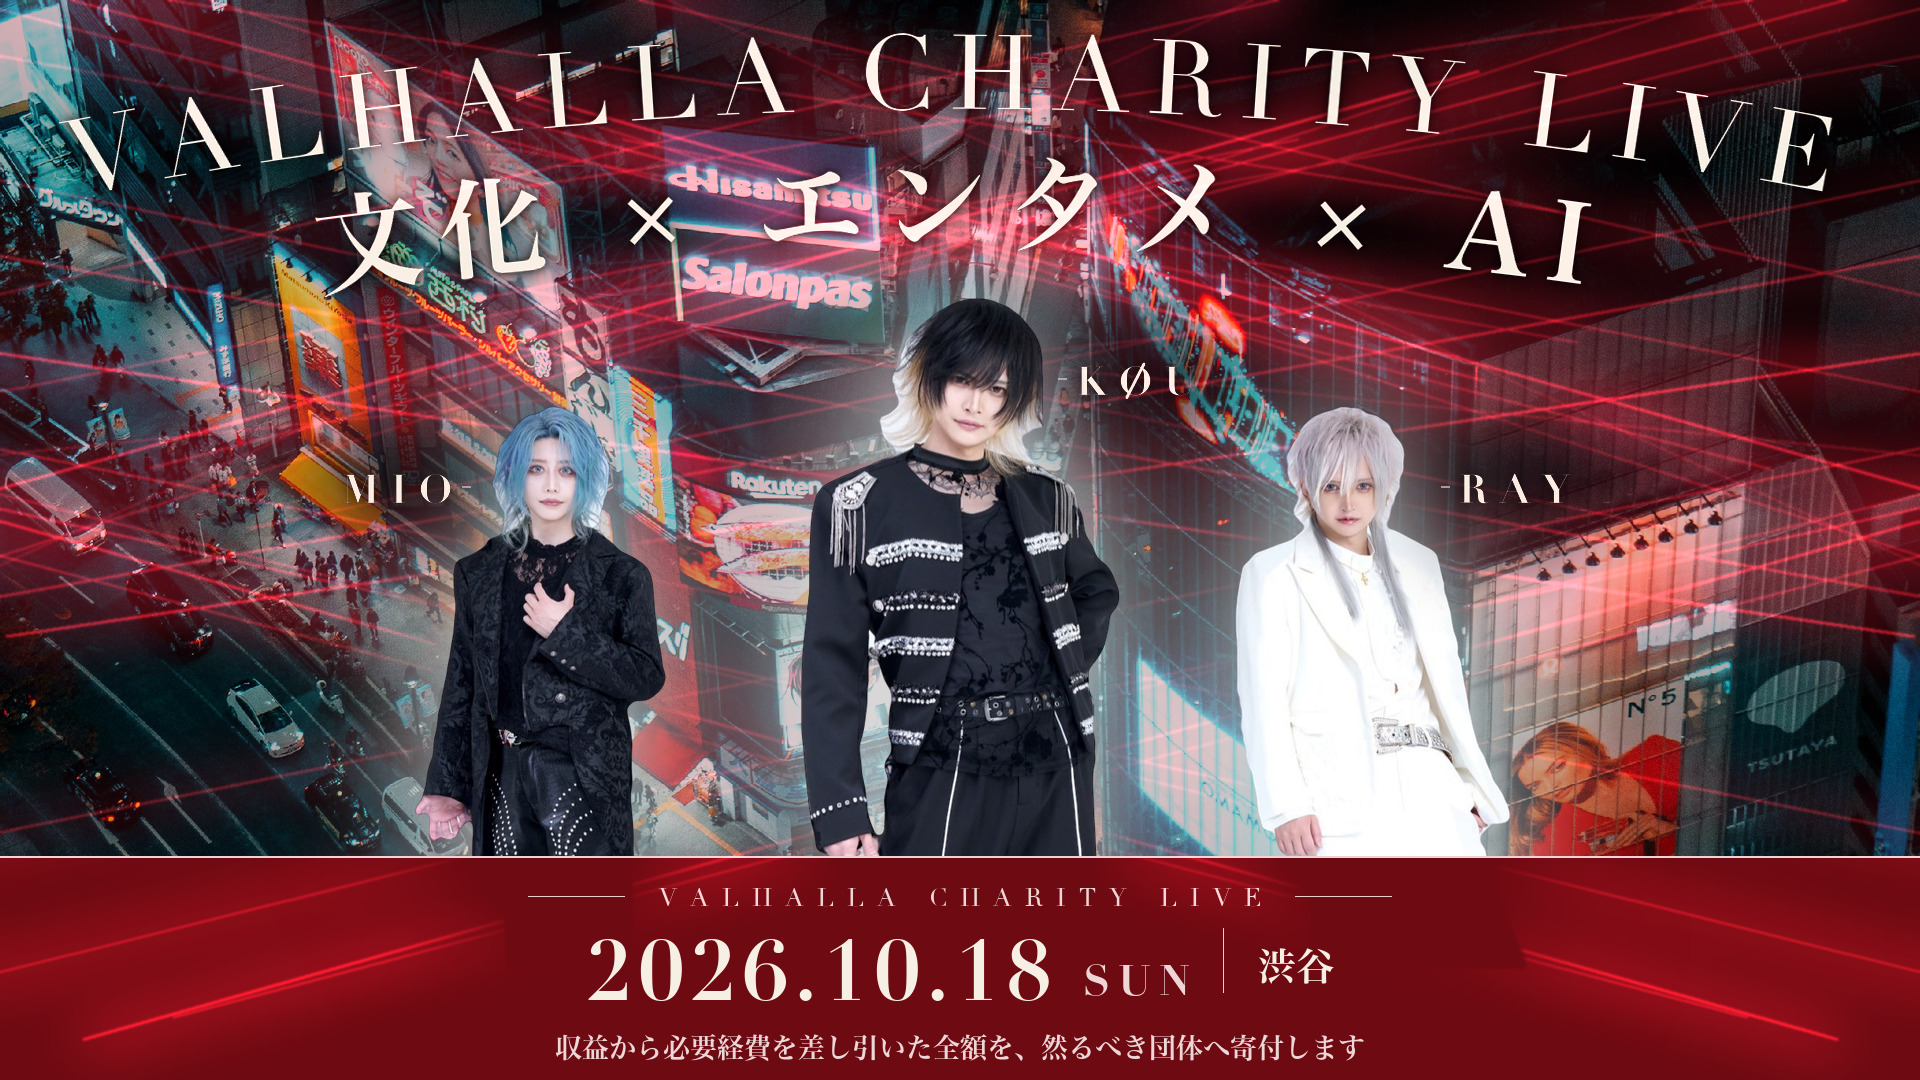
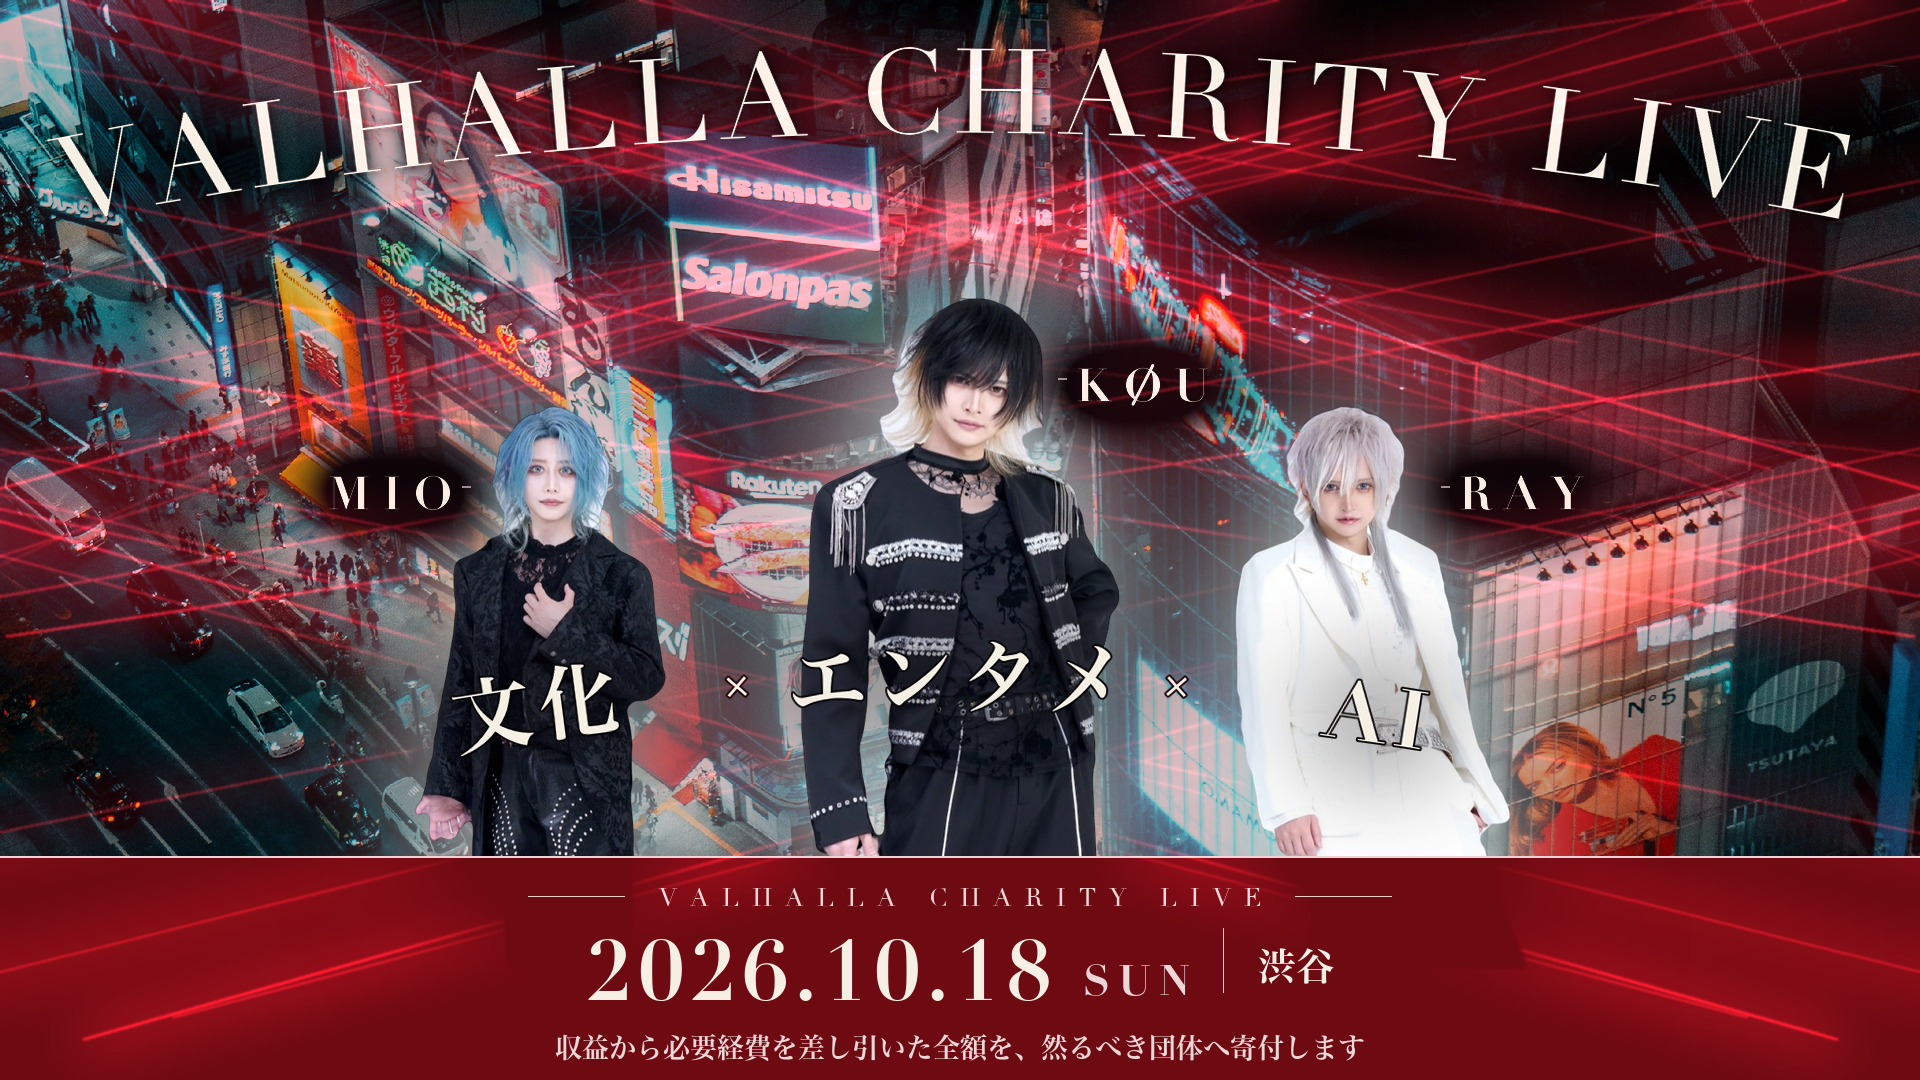
charity: drop the three words onto the members' waists
Each word now sits on the member it belongs to and each × falls in a gap
between them, so the arc has to place words at chosen x positions rather
than centre one string — the angle is solved back from the x. The title
takes the top on its own at 118pt.

Both the names and the waist words raise their ground from the letter
shapes instead of an ellipse, which was leaving KØU's U outside the plate
and letting the billboard swallow it. The waist words also carry a thin
outline: over RAY's white suit a shadow dark enough to work alone read as
a stain on the jacket.

diff --git a/assets/charity/create_flyer_wide.py b/assets/charity/create_flyer_wide.py
@@ -252,7 +252,7 @@ def paste_people(base: Image.Image, placed) -> None:
         base.alpha_composite(person, (x, y))
 
 
-NAME_SIZE = 40
+NAME_SIZE = 46
 NAME_SS = 4          # 名前だけ4倍で描いてから縮める（縁のギザつき対策）
 
 
@@ -331,26 +331,11 @@ def add_names(base: Image.Image, placed) -> None:
         tx = (head_left - gap - total) if side == "left" else (head_right + gap)
         boxes.append((name, widths, total, tx, y, side, head_left, head_right))
 
-    # ① 先に影だけを1枚の層で敷く（人物の上には出ないよう、幅は狭く）
-    scrim = Image.new("L", (W, H), 0)
-    sd = ImageDraw.Draw(scrim)
-    for _, _, total, tx, y, _, _, _ in boxes:
-        cx, cy = tx + total / 2, y + 22
-        sd.ellipse((cx - total * 0.76, cy - 68, cx + total * 0.76, cy + 68), fill=176)
-    scrim = scrim.filter(ImageFilter.GaussianBlur(38))
-    base.alpha_composite(Image.merge(
-        "RGBA", [Image.new("L", (W, H), v) for v in (7, 4, 7)] + [scrim]))
-
-    # ② そのうえに名前と、人物へつなぐ短い罫
+    # 影は文字の形から起こす。楕円の板だと端の文字が板からはみ出して沈み、
+    # KØU の U が背景の看板に飲まれていた。
     layer = Image.new("RGBA", (W, H), (0, 0, 0, 0))
     d = ImageDraw.Draw(layer)
-    gray = base.convert("L")
     for name, widths, total, tx, y, side, head_left, head_right in boxes:
-        patch = gray.crop((round(tx) - 10, y - 6, round(tx + total) + 10, y + 44))
-        mean = sum(patch.getdata()) / max(1, patch.width * patch.height)
-        if mean > 150:
-            raise RuntimeError(f"{name} の下地が明るすぎます（{mean:.0f}）")
-
         ry = y + 22
         if side == "left":
             d.line((tx + total + 10, ry, head_left - 12, ry),
@@ -365,15 +350,85 @@ def add_names(base: Image.Image, placed) -> None:
             tile, ox, oy = glyph_tile(c)
             ink.paste(tile, (round(cx) + ox, y + oy), tile)
             cx += w + 12
-
-        blank = Image.new("RGBA", (W, H), (0, 0, 0, 0))
-        shade = Image.composite(Image.new("RGBA", (W, H), (6, 3, 6, 215)),
-                                blank, ink)
-        layer.alpha_composite(shade.filter(ImageFilter.GaussianBlur(7)))
         layer.alpha_composite(Image.composite(
-            Image.new("RGBA", (W, H), CREAM + (255,)), blank, ink))
+            Image.new("RGBA", (W, H), CREAM + (255,)),
+            Image.new("RGBA", (W, H), (0, 0, 0, 0)), ink))
 
+    with_scrim(base, layer, grow=23, blur=26, strength=2.6)
+
+
+def arc_chars(layer: Image.Image, text: str, font: ImageFont.FreeTypeFont,
+              fill, cy: float, radius: float, center_x: float,
+              tracking: float = 0.0, stroke: int = 0) -> None:
+    """弧の上の、指定した x を中心にして文字列を置く。
+
+    arc_text は画面の中央に置くだけだが、こちらは置きたい x を渡せる。
+    3人の体と隙間に語を割りつけるために使う。x から角度を逆算し、
+    その角度を語の中心にして左右に文字を送る。
+    """
+    d = ImageDraw.Draw(layer)
+    widths = [d.textlength(c, font=font) + tracking for c in text]
+    total = sum(widths)
+    center = math.asin(max(-1.0, min(1.0, (center_x - W / 2) / radius)))
+    angle = center - total / radius / 2
+    for ch, w in zip(text, widths):
+        angle += (w / radius) / 2
+        glyph = Image.new("RGBA", (round(w) + 60, font.size + 70), (0, 0, 0, 0))
+        ImageDraw.Draw(glyph).text((30, 20), ch, font=font, fill=fill,
+                                   stroke_width=stroke,
+                                   stroke_fill=(8, 4, 8, 230) if stroke else None)
+        rot = glyph.rotate(-math.degrees(angle), resample=Image.Resampling.BICUBIC,
+                           expand=True)
+        x = W / 2 + radius * math.sin(angle)
+        y = cy - radius * math.cos(angle)
+        layer.alpha_composite(rot, (round(x - rot.width / 2), round(y - rot.height / 2)))
+        angle += (w / radius) / 2
+
+
+def with_scrim(base: Image.Image, layer: Image.Image, grow: int, blur: float,
+               strength: float) -> None:
+    """文字の形そのものから影を起こして敷き、そのうえに文字を重ねる。
+
+    楕円の板を敷く方式だと、端の文字が板からはみ出して背景に沈む。
+    文字のアルファを太らせてぼかせば、どの一文字にも同じだけ影がつく。
+    """
+    alpha = layer.getchannel("A").filter(ImageFilter.MaxFilter(grow))
+    alpha = alpha.filter(ImageFilter.GaussianBlur(blur))
+    alpha = alpha.point(lambda v: min(255, round(v * strength)))
+    base.alpha_composite(Image.merge(
+        "RGBA", [Image.new("L", base.size, v) for v in (7, 4, 7)] + [alpha]))
     base.alpha_composite(layer)
+
+
+def add_waist_words(base: Image.Image) -> None:
+    """「文化 × エンタメ × AI」を3人の腰の高さに、弧のまま置く。
+
+    語と人物を1対1で重ね、× は人と人の隙間に落とす。
+        文化 → MIO ／ × → すき間 ／ エンタメ → KØU ／ × → すき間 ／ AI → RAY
+    上に凸の弧なので中央の KØU のところがいちばん高い。3人は中央が大きく
+    左右が下がる配置なので、腰の高さもちょうどそう並んでいる。
+
+    RAY の白いスーツはここの明るさが 241。色を変えて逃げると3語がばらけるので、
+    文字の形から起こした影を先に敷いて、3語ともクリームで通す。
+    """
+    layer = Image.new("RGBA", (W, H), (0, 0, 0, 0))
+    radius = 2940                       # 端で 30px 下がる浅い弧
+    cy = 690 + radius
+    mincho = face(MINCHO, 80)
+    didot = face(DIDOT, 80, DIDOT_BOLD_INDEX)
+    cross = face(MINCHO, 46)
+
+    for text, font, cx, tr in (("文化", mincho, 540, 6),
+                               ("×", cross, 738, 0),
+                               ("エンタメ", mincho, 960, 6),
+                               ("×", cross, 1176, 0),
+                               ("AI", didot, 1380, 8)):
+        arc_chars(layer, text, font, CREAM + (255,), cy, radius, cx, tracking=tr,
+                  stroke=2)
+
+    # 影は広く薄く。狭く濃く敷くと、RAY の白いスーツの上で汚れに見える。
+    # 縁取りで手前のコントラストを確保してあるので、こちらは軽くていい。
+    with_scrim(base, layer, grow=9, blur=52, strength=1.25)
 
 
 def arc_text(base: Image.Image, text: str, font: ImageFont.FreeTypeFont,
@@ -406,27 +461,13 @@ def arc_text(base: Image.Image, text: str, font: ImageFont.FreeTypeFont,
 
 
 def add_type(base: Image.Image) -> None:
-    d = ImageDraw.Draw(base)
+    """上のアーチ。3語を腰へ下ろしたぶん、ここはイベント名だけを大きく置く。
 
-    # 2行とも、弧を浅くして横の余白まで使い切る。半径を大きくすると
-    # 弧は平たくなり、同じ文字量でも横に伸びて上への張り出しが減る。
-    # 半径を揃えてあるので、2行の間隔は端まで一定に保たれる。
-    #
-    #   R = 4600 / 字間で幅を作る / 頂点 y は下の実測値から決めた
-    #     Didot 104 …… 弧の点から見て 上 45px・下 33px にインクが乗る
-    #     明朝  100 …… 同じく 上 63px・下 32px
-    #
-    ARC_R = 4600
-
-    # 主役：イベント名。頂点 78 → インクの上端 33 で、天地とも切れない。
-    arc_text(base, "VALHALLA CHARITY LIVE", face(DIDOT, 104), CREAM + (255,),
-             W // 2, 78 + ARC_R, ARC_R, tracking=18)
-
-    # 3語。字間を詰めて中央にまとめ、失う横幅は字の大きさで取り返す。
-    # 100pt/字間52（幅1721）→ 108pt/字間16（幅約1290）。塊として立つ。
-    # 頂点 217 → インク下端 252。いちばん高い頭（y≈298）まで 46px 空く。
-    arc_text(base, "文化 × エンタメ × AI", face(MINCHO, 108), CREAM + (255,),
-             W // 2, 217 + ARC_R, ARC_R, tracking=16)
+    半径を大きくして弧を浅くし、横の余白まで使い切る。
+    118pt・字間10 で幅およそ 1820px。天地とも切れない。
+    """
+    arc_text(base, "VALHALLA CHARITY LIVE", face(DIDOT, 118), CREAM + (255,),
+             W // 2, 95 + 4600, 4600, tracking=10)
 
 
 def add_band(base: Image.Image) -> None:
@@ -500,6 +541,7 @@ def main() -> None:
     add_type(canvas)
     paste_people(canvas, placed)
     add_names(canvas, placed)
+    add_waist_words(canvas)
     add_band(canvas)
 
     # 人物の前にもレーザーを走らせる。ただし
